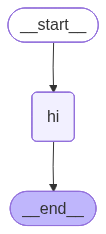
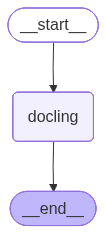
docling node added

Changed region(s): [[0.1132, 0.3889, 0.9057, 0.6282]]

diff --git a/graph/nodes/docling.py b/graph/nodes/docling.py
@@ -1,11 +1,85 @@
 from graph.state import AgentState
+# for using prefetced models of docling
+from docling.datamodel.base_models import InputFormat 
+from docling.datamodel.pipeline_options import PdfPipelineOptions, TableFormerMode
+# for document conversion with docling
+from docling.document_converter import DocumentConverter, PdfFormatOption
+# for configuring picture description
+from docling.datamodel.pipeline_options import PictureDescriptionVlmOptions
+# for extracting pictures and tables
+from docling_core.types.doc import PictureItem, TableItem
+from pathlib import Path
 
 # only a test node
-def greeting_node(state: AgentState) -> AgentState:
+def docling_node(state: AgentState) -> AgentState:
     """
-    Simple node that adds a greeting message to the state.
+    Docling node that analyzes and converts a PDF document into a md document and save it in the state.
     """
+    source_path = "data/test_document.pdf"
+    artifacts_path = "graph/nodes/docling/models" # path to docling models
+    output_path = Path("data")
+    # create output-folder if not exists
+    output_path.mkdir(parents=True, exist_ok=True)
 
-    state['message'] = "Hey " + state["message"] + ", how is your day going?"
+    pipeline_options = PdfPipelineOptions(artifacts_path=artifacts_path,
+                                          do_table_structure=True)
+    
+    pipeline_options.table_structure_options.mode = TableFormerMode.ACCURATE  # use more accurate TableFormer model
+    pipeline_options.do_code_enrichment = True # enable code enrichment
+    pipeline_options.do_formula_enrichment = True # enable formula enrichment
+
+    pipeline_options.generate_picture_images = True
+    pipeline_options.generate_page_images = True
+    pipeline_options.images_scale = 2  # scale images by factor 2
+    pipeline_options.do_picture_classification = True # enable picture classification
+
+    pipeline_options.do_picture_description = True # enable picture description
+    pipeline_options.picture_description_options = PictureDescriptionVlmOptions(
+        repo_id="models--HuggingFaceTB--SmolVLM-256M-Instruct",
+        prompt="Describe the image in three sentences. Be concise and accurate.",
+    )
+
+    converter = DocumentConverter(
+        format_options={
+            InputFormat.PDF: PdfFormatOption(pipeline_options=pipeline_options)
+        }
+    )
+
+    # Convert the document
+    doc = converter.convert(source_path).document
+
+    # Export md document
+    md_document = doc.export_to_markdown()
+    with (output_path / "document.md").open("w") as f: 
+        f.write(md_document)
+
+    # Save images of figures and tables
+    table_counter = 0
+    picture_counter = 0
+    image_dir = (output_path / "images") 
+    image_dir.mkdir(parents=True, exist_ok=True)
+    image_path_list = []
+    for element, _level in doc.iterate_items():
+        if isinstance(element, TableItem):
+            table_counter += 1
+            image_path = (image_dir / f"table-{table_counter}.png")
+            with image_path.open("wb") as fp:
+                element.get_image(doc).save(fp, "PNG")
+            image_path_list.append(str(image_path))
+            
+        elif isinstance(element, PictureItem):
+            if element.get_image(doc).size[0] < 100 and element.get_image(doc).size[1] < 100:
+                continue  # skip very small images
+            picture_counter += 1
+            image_path = (image_dir / f"picture-{picture_counter}.png")
+            with image_path.open("wb") as fp:
+                element.get_image(doc).save(fp, "PNG")
+            image_path_list.append(str(image_path))
+
+    # Update state
+    state["md_document"] = f"{output_path}/document.md"
+    state["number_of_tables"] = table_counter
+    state["number_of_pictures"] = picture_counter
+    state["images"] = image_path_list
 
     return state

diff --git a/graph/builder.py b/graph/builder.py
@@ -1,5 +1,5 @@
 from langgraph.graph import StateGraph, START, END
-from graph.nodes.docling import greeting_node
+from graph.nodes.docling import docling_node
 from graph.state import AgentState
 
 # build a graph
@@ -8,15 +8,15 @@ def build_graph():
 
 
     # add nodes
-    graph.add_node("greeter", greeting_node)
+    graph.add_node("docling", docling_node)
 
     # startpoint
-    graph.add_edge(START, "greeter")
+    graph.add_edge(START, "docling")
 
     # edges & conditions
     # graph.add_edge("", "")
 
     # endpoint
-    graph.add_edge("greeter", END)
+    graph.add_edge("docling", END)
 
     return graph

diff --git a/main.py b/main.py
@@ -1,14 +1,12 @@
 from graph.builder import build_graph
 from graph.visualizer import visualize_graph_png, visualize_graph_terminal
-from IPython.display import Image, display
 
 if __name__ == "__main__":
     graph = build_graph()
     app = graph.compile()
 
-    #visualize_graph_png(graph=app)
+    # visualize_graph_png(graph=app)
     visualize_graph_terminal(graph=app)
 
-
-    result = app.invoke({"message": "Max"})
+    result = app.invoke({})
     print(result)

diff --git a/graph/state.py b/graph/state.py
@@ -2,4 +2,8 @@ from typing import TypedDict
 
 # The state schema
 class AgentState(TypedDict):
+    md_document: str
+    number_of_tables: int
+    number_of_pictures: int
+    images: list[str]
     message: str
